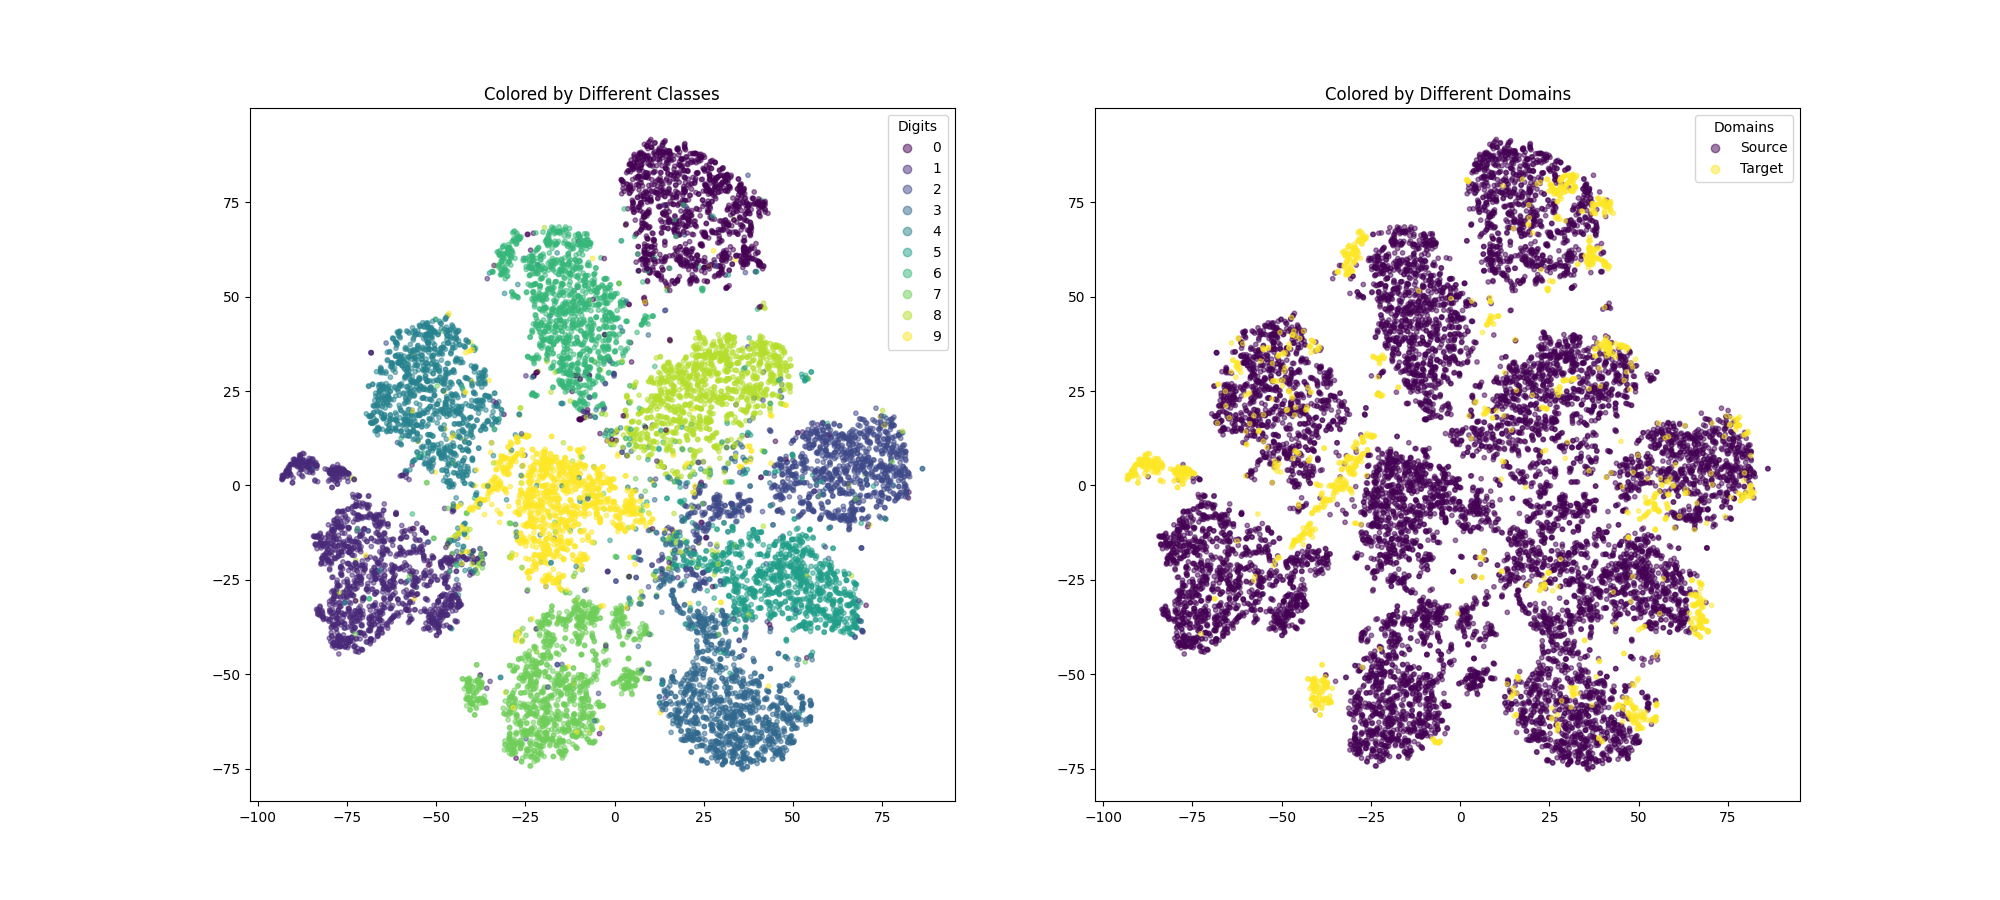
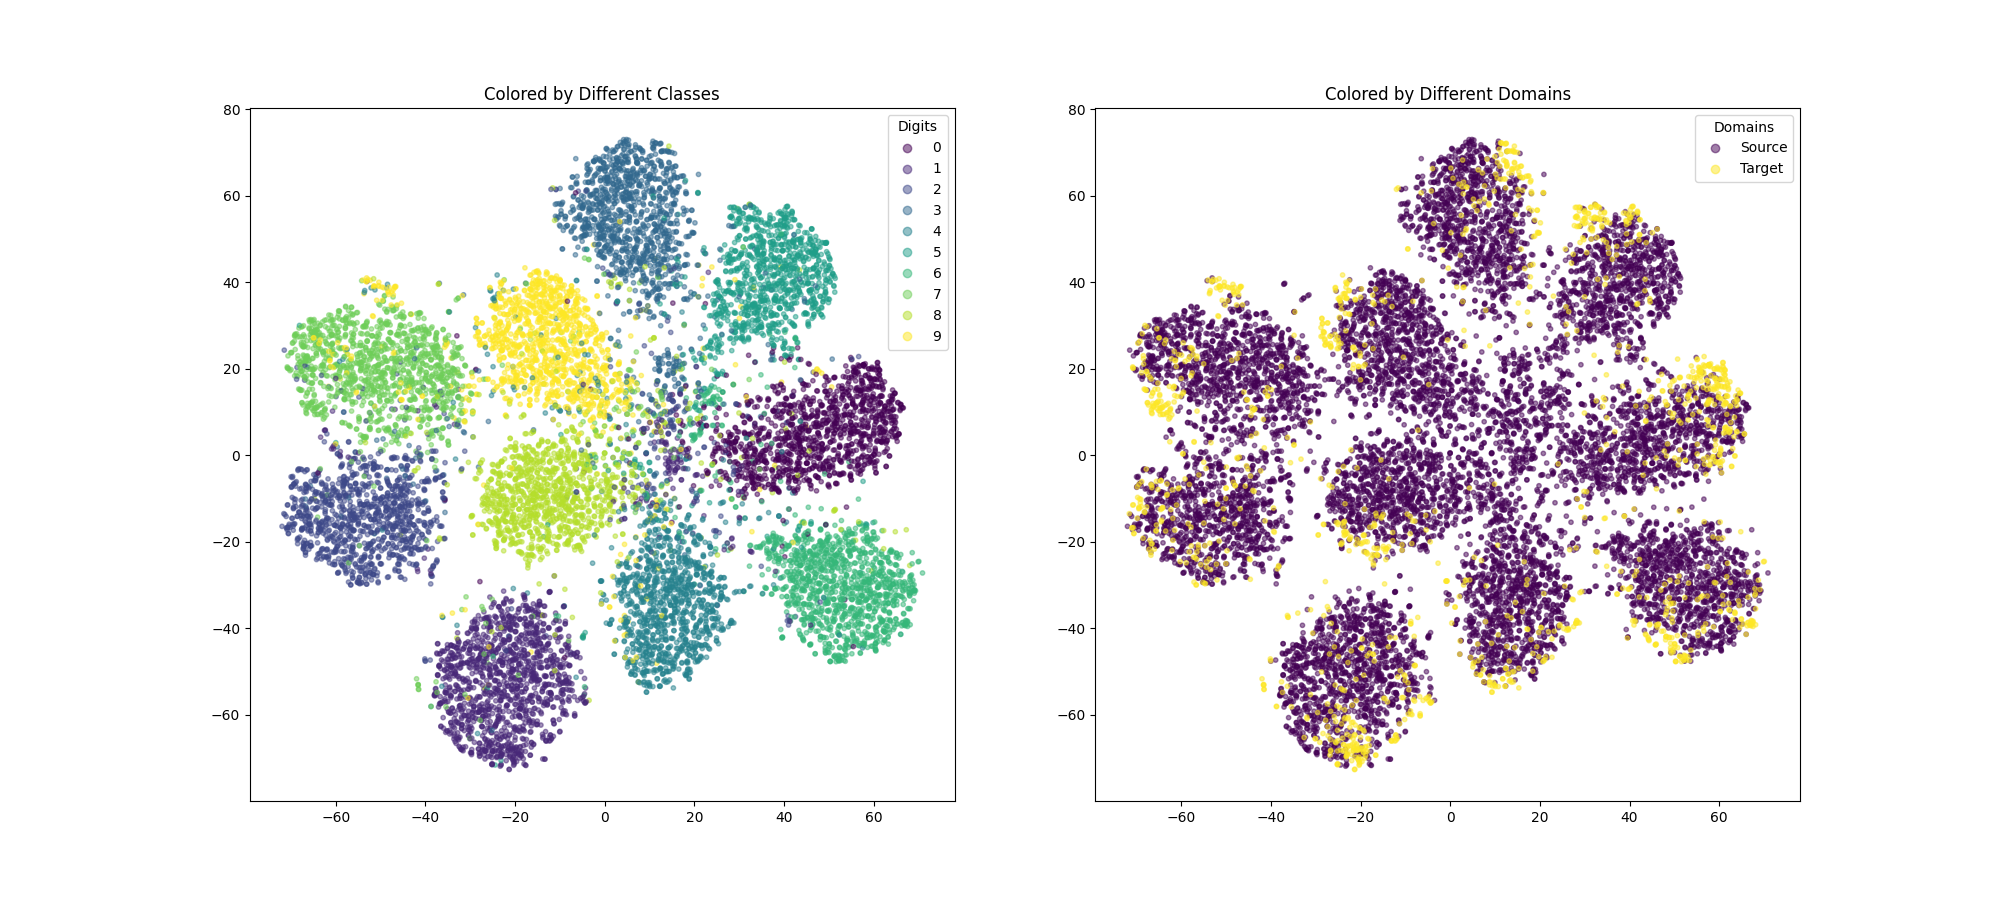
Update USPS model

Changed region(s): [[0.558, 0.1556, 0.899, 0.8711], [0.124, 0.1556, 0.465, 0.8711], [0.62, 0.9022, 0.651, 0.9333]]

diff --git a/HW2/P3_USPS_model.py b/HW2/P3_USPS_model.py
@@ -15,51 +15,46 @@ class GRF(torch.autograd.Function):
 
 
 class FeatureExtractor(nn.Module):
-    def __init__(self, in_chans=3, n_features=512) -> None:
+    def __init__(self, in_chans=3) -> None:
         super().__init__()
-        self.n_features = n_features
         self.conv = nn.Sequential(
-            nn.Conv2d(in_chans, 64, 3, padding=1),
+            nn.Conv2d(in_chans, 64, kernel_size=4),
             nn.BatchNorm2d(64),
-            nn.ReLU(inplace=True),
+            nn.ReLU(),
+            nn.MaxPool2d(kernel_size=3, stride=2),
 
-            nn.Conv2d(64, 128, 3, padding=1),
-            nn.BatchNorm2d(128),
-            nn.ReLU(inplace=True),
+            nn.Conv2d(64, 64, kernel_size=5),
+            nn.BatchNorm2d(64),
+            nn.Dropout2d(),
+            nn.ReLU(),
+            nn.MaxPool2d(kernel_size=3, stride=2),
 
-            nn.Conv2d(128, 256, 3, padding=1),
-            nn.BatchNorm2d(256),
-            nn.ReLU(inplace=True),
-
-            nn.Conv2d(256, 256, 3, padding=1),
-            nn.BatchNorm2d(256),
-            nn.ReLU(inplace=True),
-
-            nn.Conv2d(256, n_features, 3, padding=1),
-            nn.BatchNorm2d(n_features),
-            nn.ReLU(inplace=True),
-
-            nn.AdaptiveAvgPool2d((1, 1)),
+            nn.Conv2d(64, 128, kernel_size=3),
         )
 
     def forward(self, x):
         feature = self.conv(x)
-        feature = feature.reshape(-1, 512)
+        feature = feature.reshape(-1, 128)
         return feature
 
 
 class LabelPredictor(nn.Module):
-    def __init__(self, n_features=512, n_classes=10) -> None:
+    def __init__(self, n_classes=10) -> None:
         super().__init__()
         self.l_clf = nn.Sequential(
-            nn.Linear(n_features, n_features // 2),
+            nn.Linear(128, 1024),
+            nn.BatchNorm1d(1024),
             nn.ReLU(),
-            nn.Linear(n_features // 2, n_classes),
+
+            nn.Linear(1024, 256),
+            nn.BatchNorm1d(256),
+            nn.ReLU(),
+
+            nn.Linear(256, n_classes),
         )
 
     def forward(self, x):
         x = self.l_clf(x)
-        # x = nn.functional.softmax(x)  # using BCEloss later
         return x
 
 
@@ -68,15 +63,18 @@ class DomainClassifier(nn.Module):
     A Binary classifier
     '''
 
-    def __init__(self, n_features=512) -> None:
+    def __init__(self) -> None:
         super().__init__()
         self.d_clf = nn.Sequential(
-            nn.Linear(n_features, n_features // 2),
-            nn.LeakyReLU(0.2),
-            nn.Linear(n_features // 2, n_features // 4),
-            nn.LeakyReLU(0.2),
-            nn.Linear(n_features // 4, 1),
-            nn.Sigmoid(),
+            nn.Linear(128, 1024),
+            nn.BatchNorm1d(1024),
+            nn.ReLU(),
+
+            nn.Linear(1024, 256),
+            nn.BatchNorm1d(256),
+            nn.ReLU(),
+
+            nn.Linear(256, 1),
         )
 
     def forward(self, x, lambda_):
